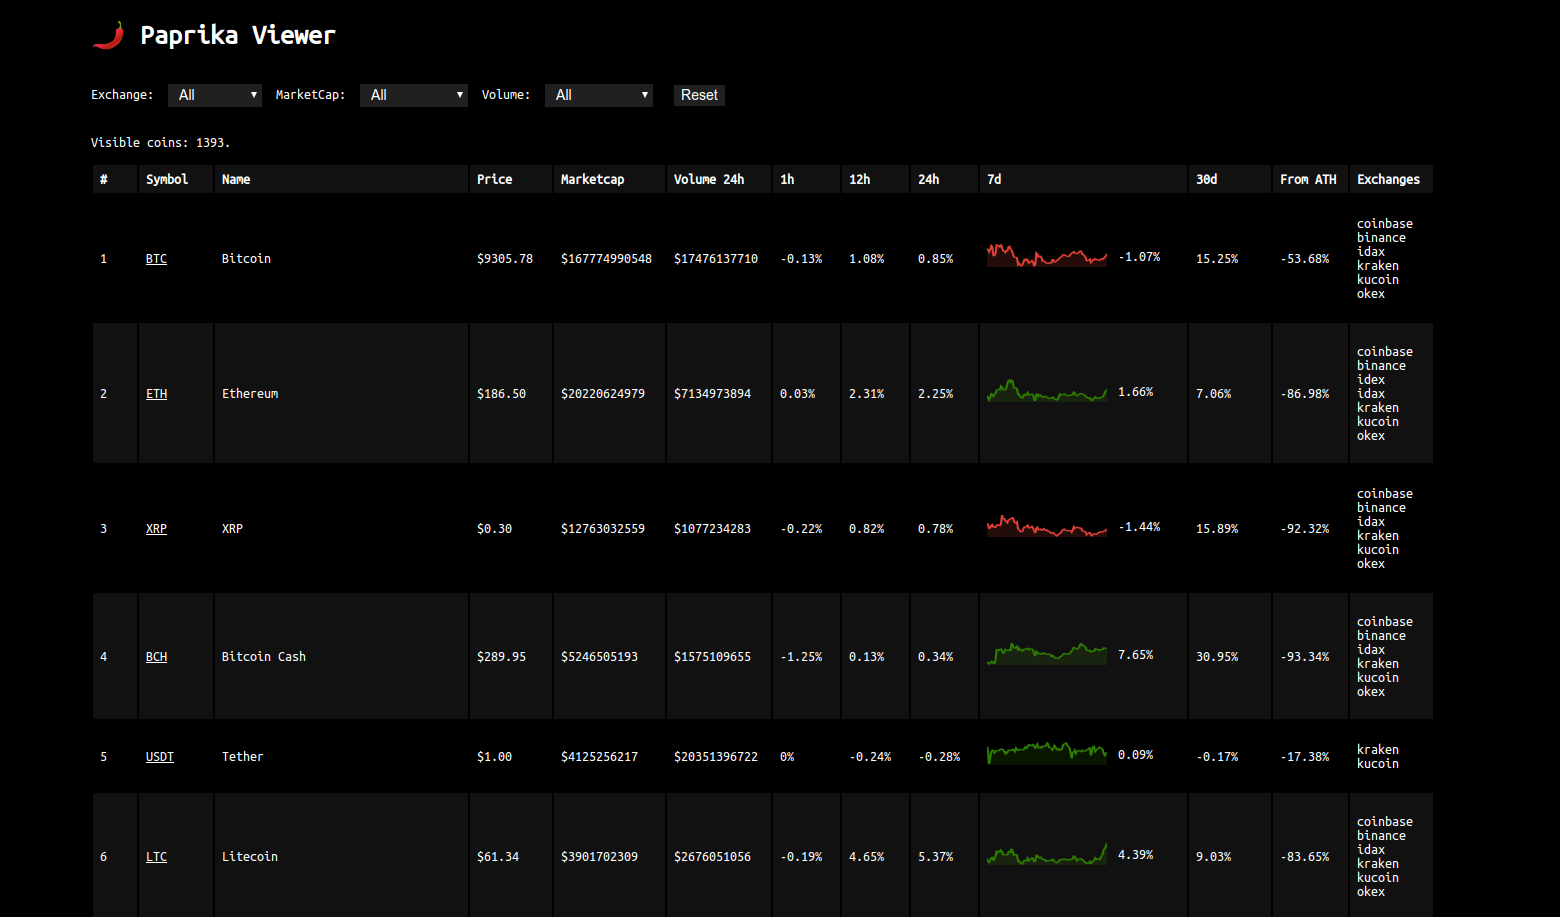
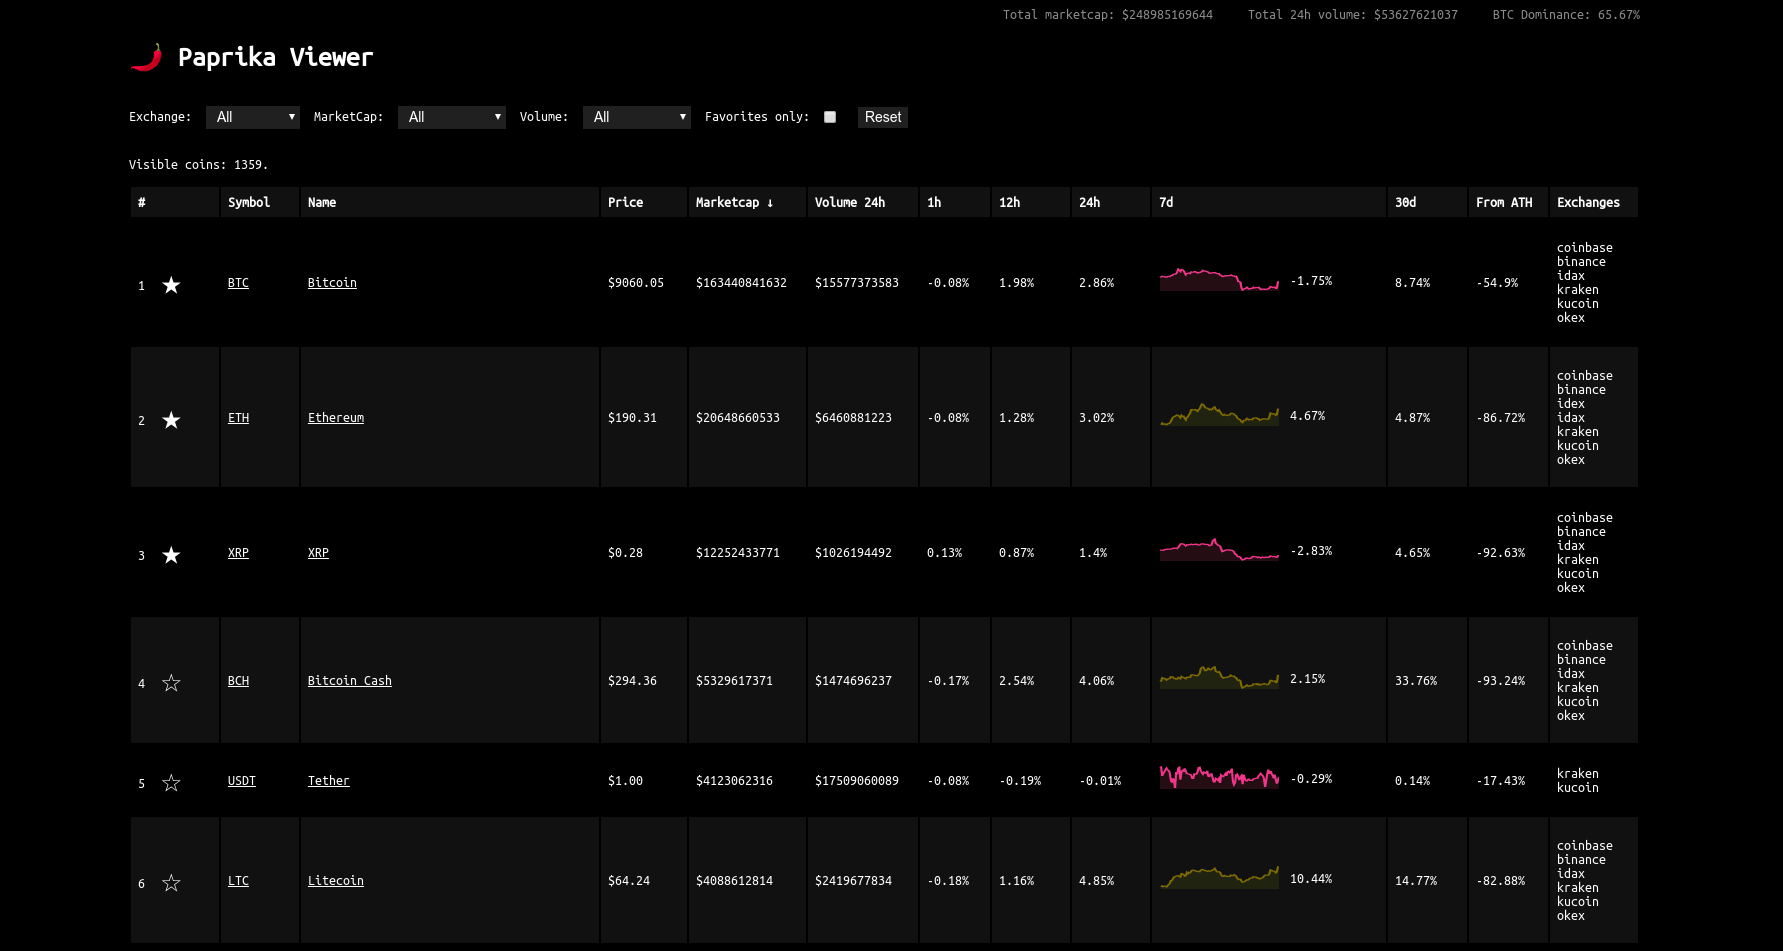
Update readme

diff --git a/README.md b/README.md
@@ -18,10 +18,16 @@ Using only public API so no key is needed.
 
 ![Paprika Viewer](paprika-viewer.png 'Paprika Viewer')
 
-## Upcoming
+## Features
 
--   Filtering on all values.
--   Easier way of adding more markets
+-   Show all coins in one view
+-   Filtering on exchanges, market cap, volume
+-   Sorting on rank, symbol, name, price, marketcap, volume, market value change or all time high (ATH)
+-   Listing which exchanges provide each coin on all coins at the same time
+-   Graphs for 7d. Clicking on coins gives graphs for 24h, 7d and 30d
+-   Global market cap, Bitcoin dominance and total 24h volume
+-   Add your favorites and filter for those only
+-   Go directly to CoinPaprika for each coin for more info
 
 ## Get started
 
